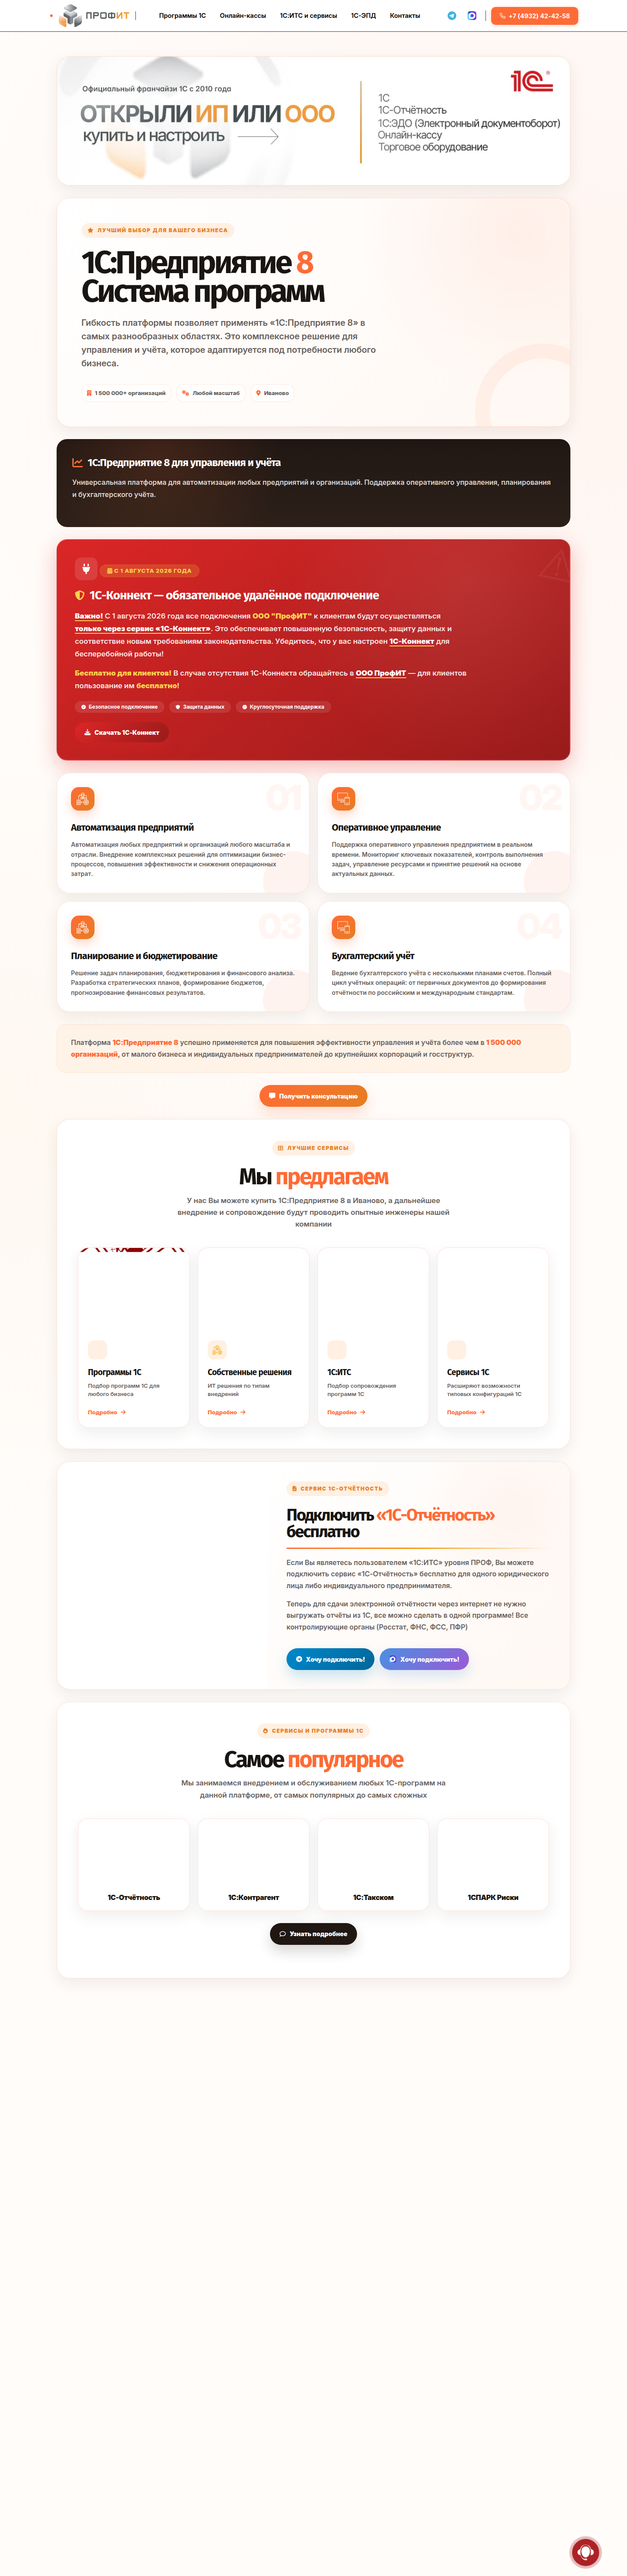
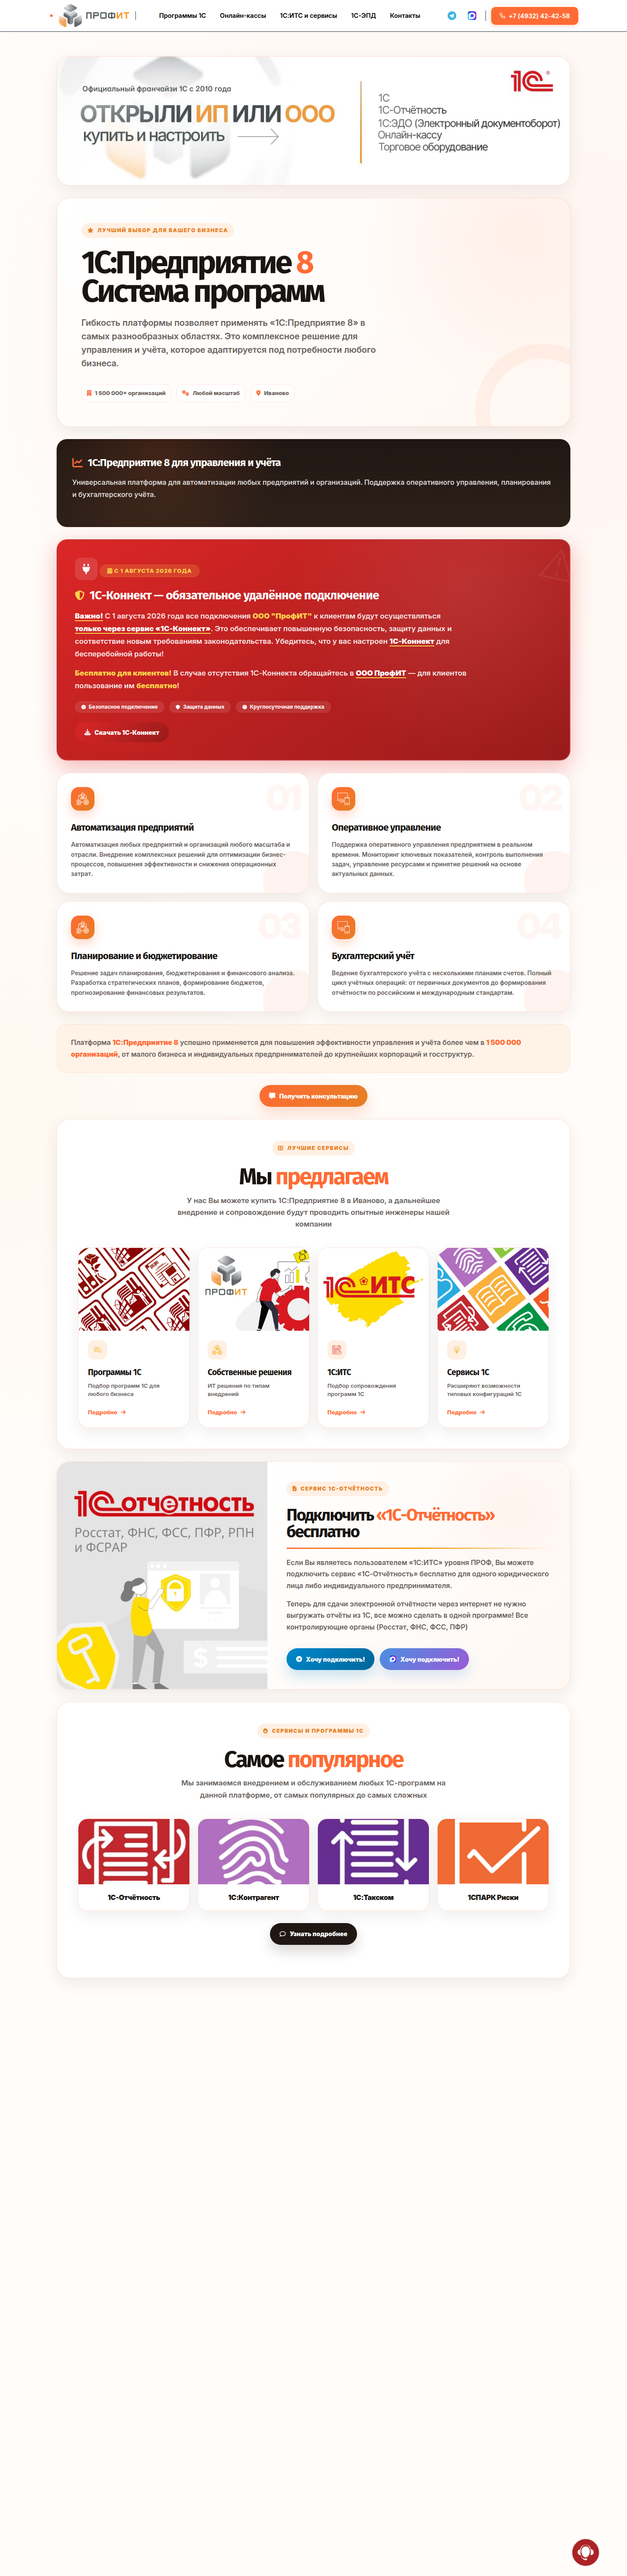
Reshoot ProfiTE after with full lazy-loaded assets
Wait and scroll the live page so offer/popular cards render
before capturing the full-page after screenshot.

diff --git a/js/main.js b/js/main.js
@@ -107,11 +107,11 @@
         ["Год", "2025"],
       ],
       shots: [
-        "assets/works/profite/after-live.webp",
+        "assets/works/profite/after-live-v2.webp",
       ],
       beforeAfter: {
         before: "assets/works/profite/before-desktop.webp",
-        after: "assets/works/profite/after-live.webp",
+        after: "assets/works/profite/after-live-v2.webp",
         issues: [
           "Форма входа и оранжевое меню съедают внимание вместо оффера",
           "Баннеры и битые картинки снижают доверие",
